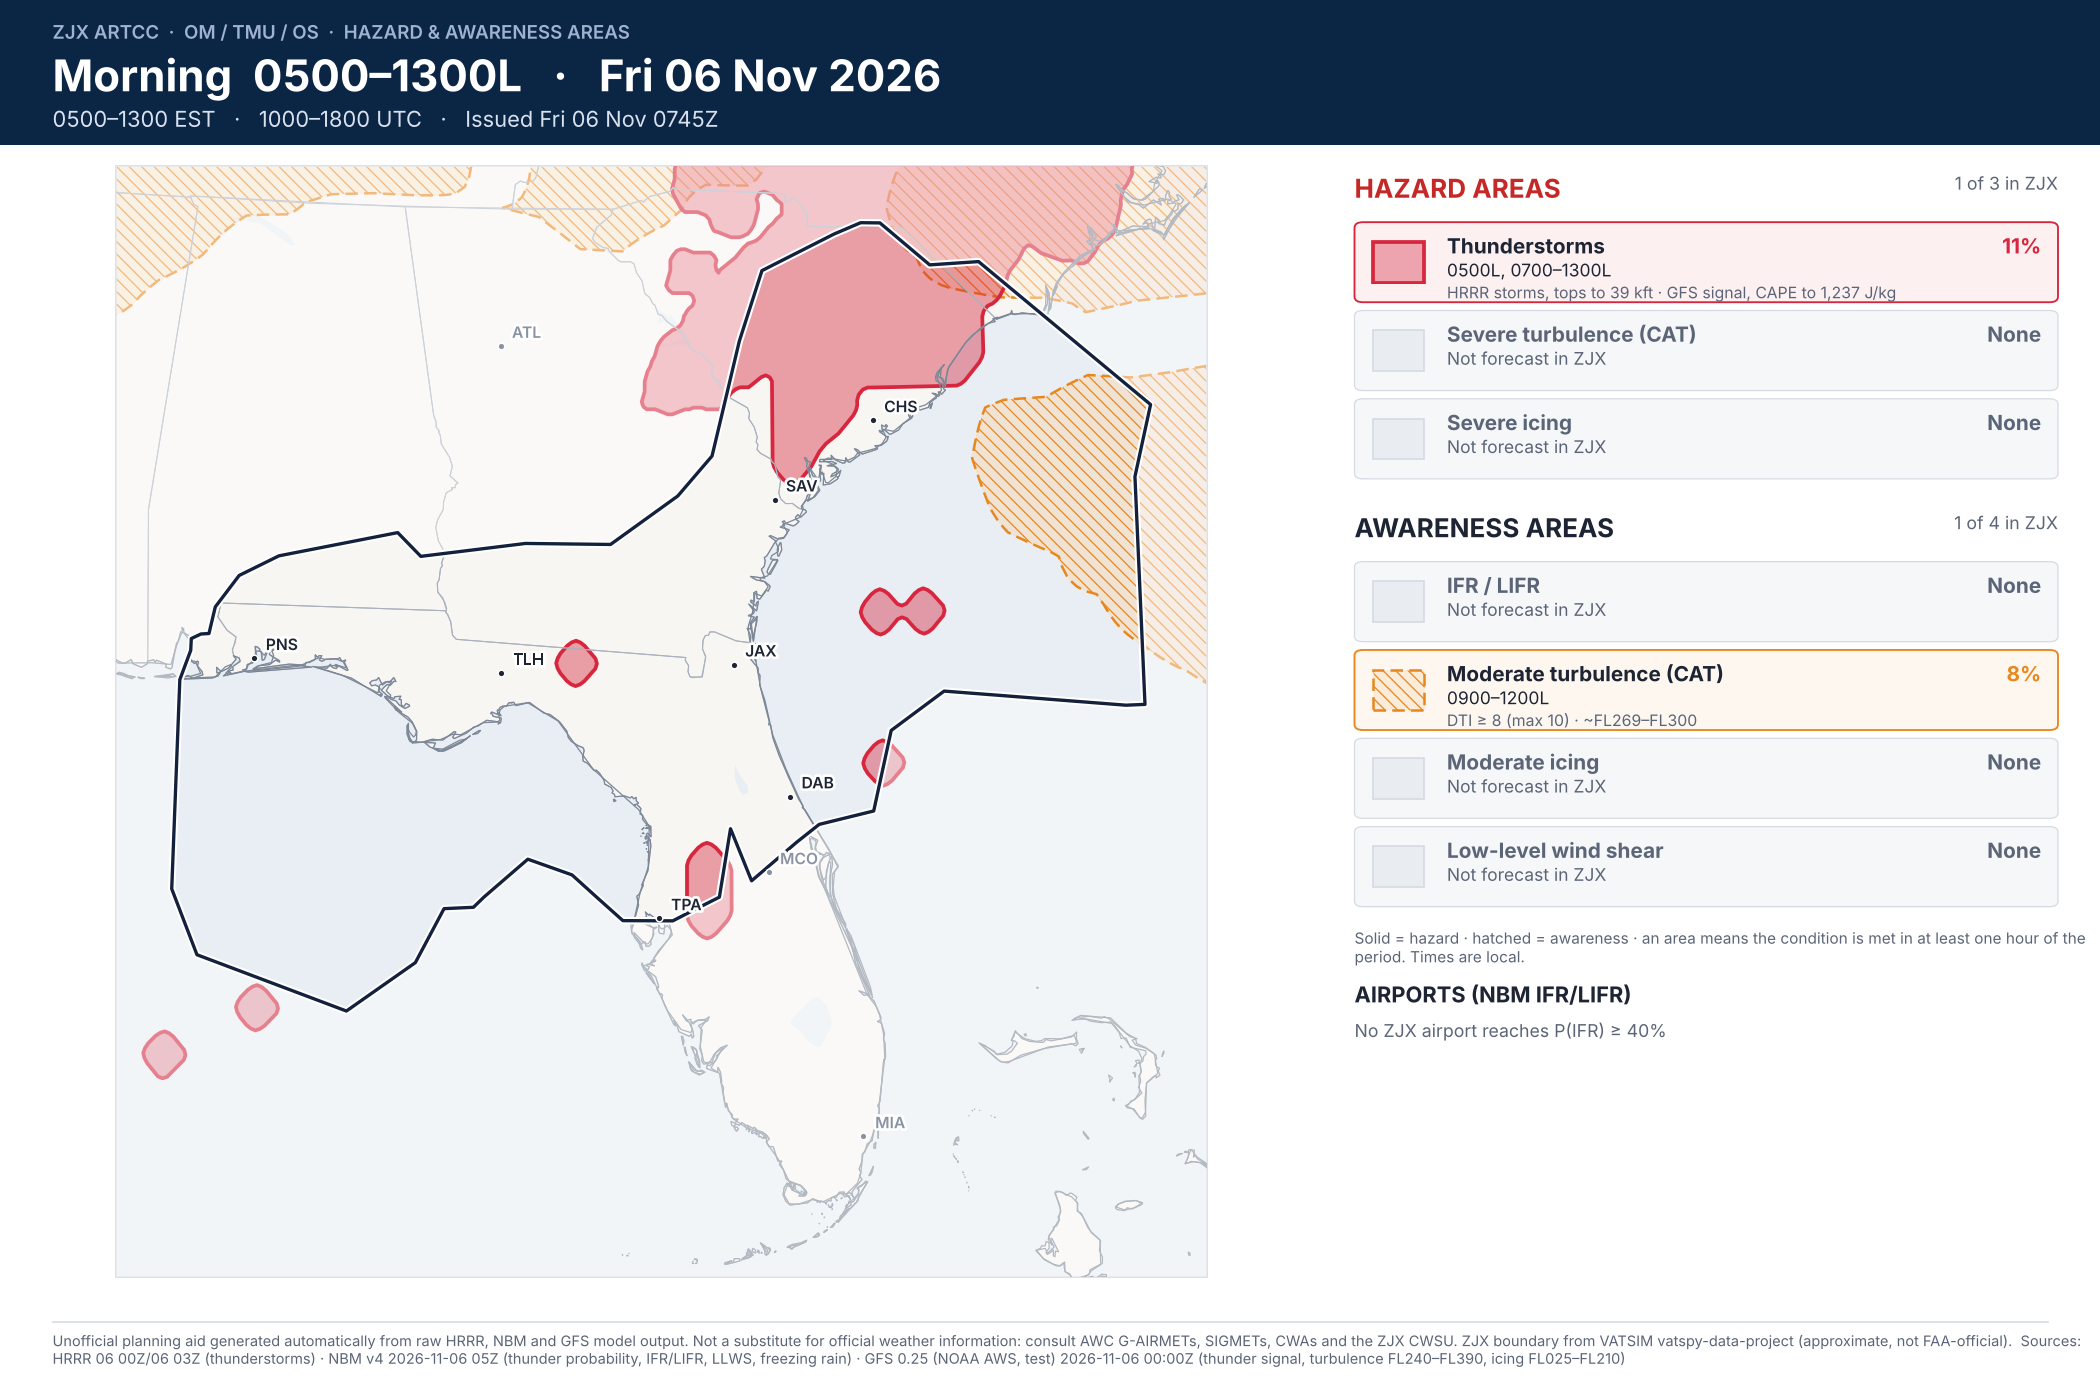
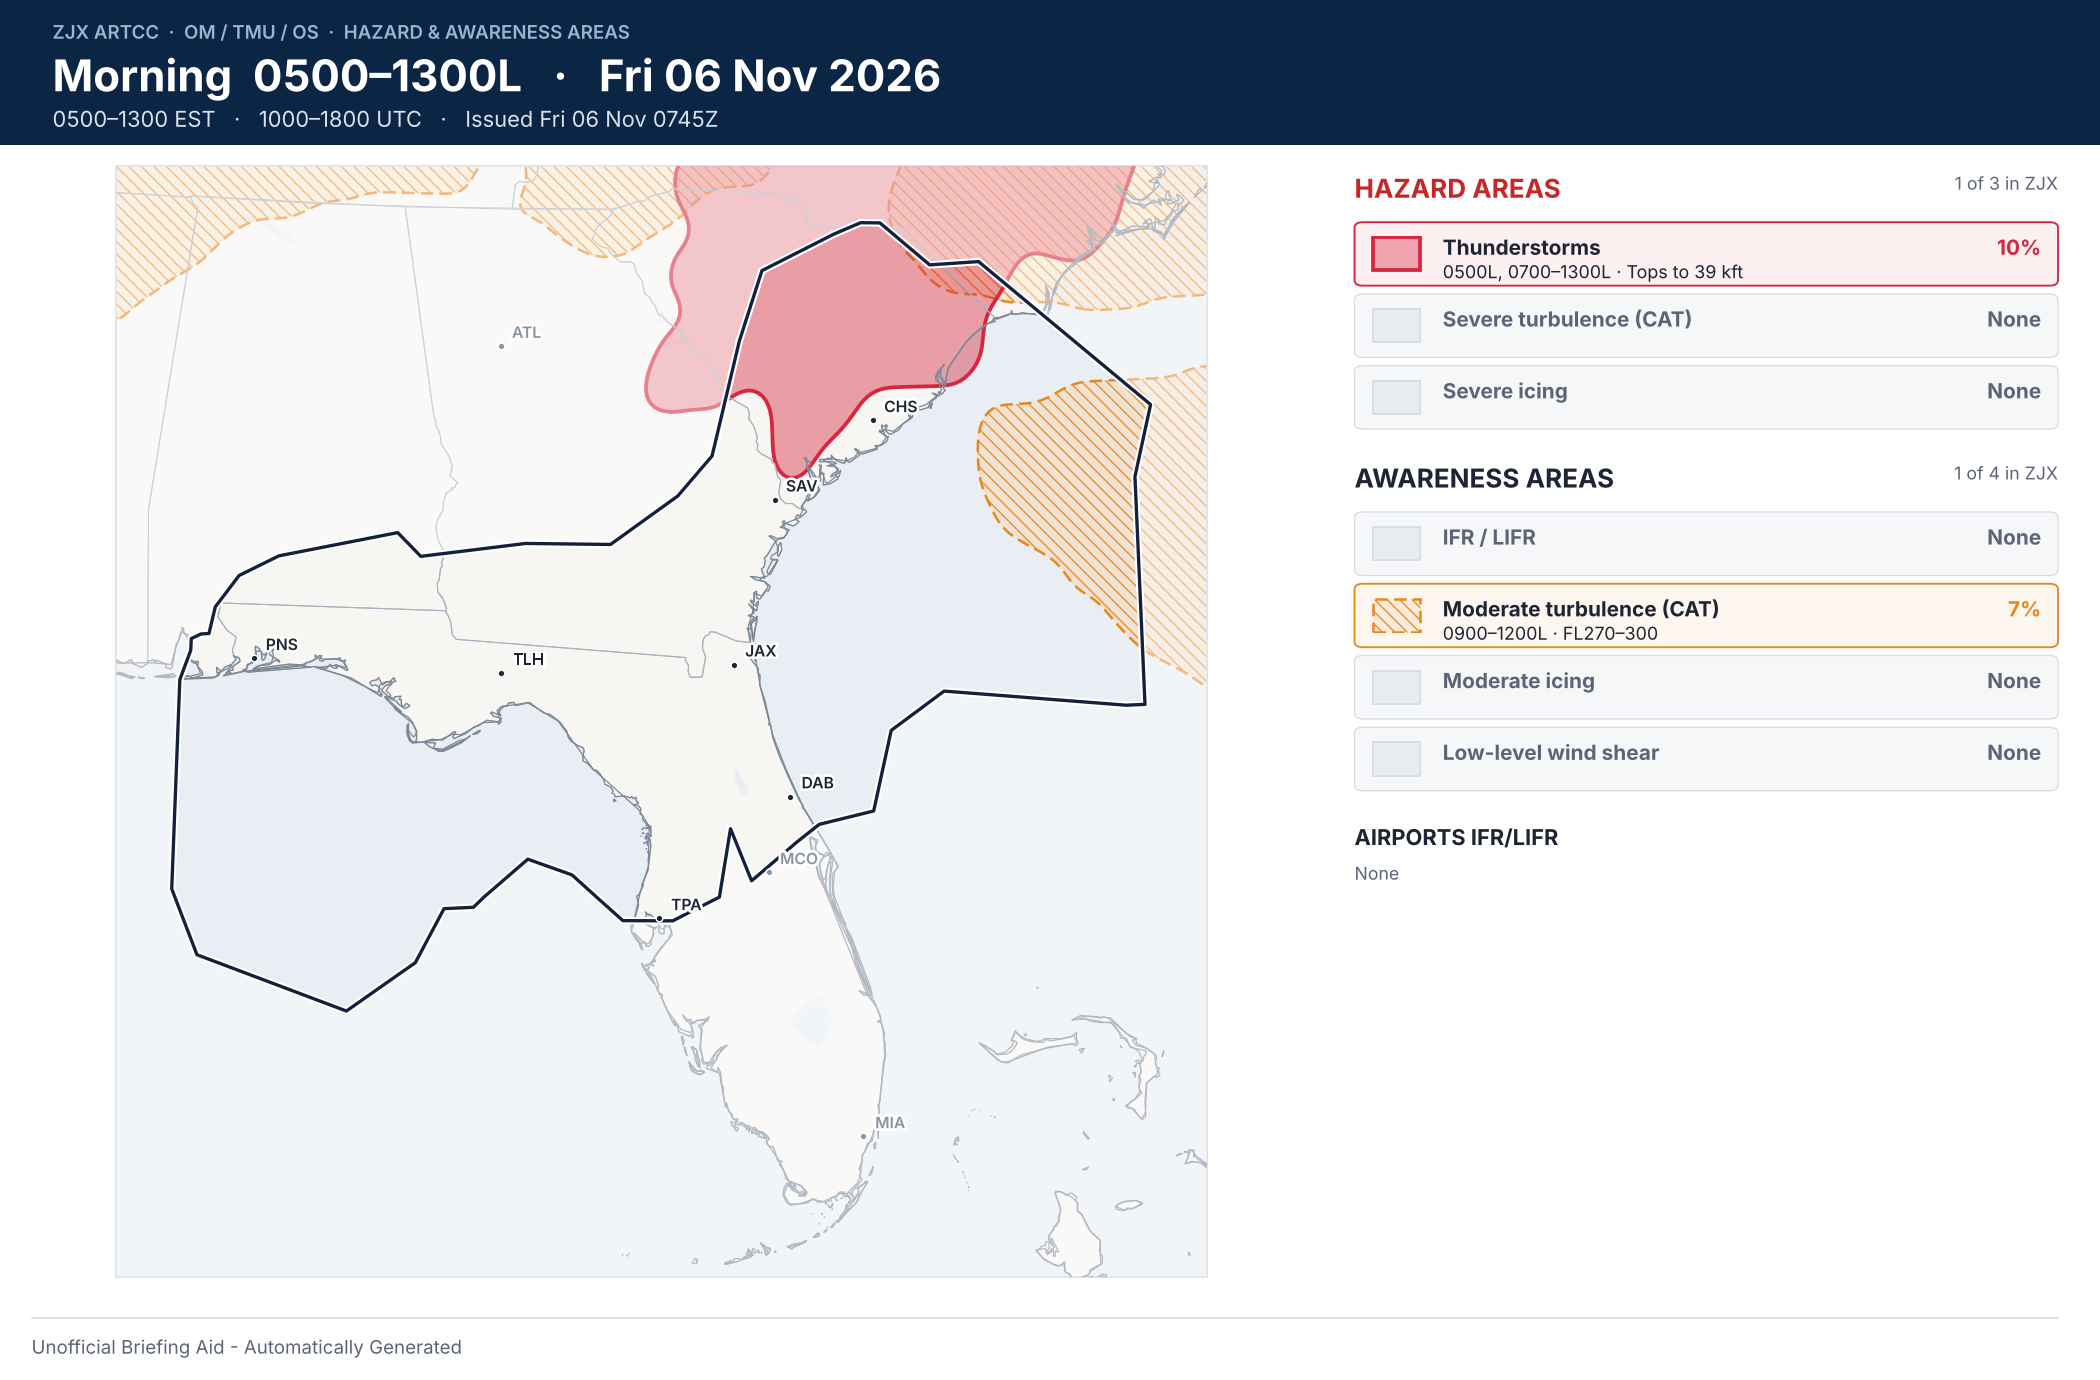
OM/TMU/OS maps: smooth areas, drop small blobs, trim wording
Areas are generalised on a 5 km display grid (close 20 km gaps, drop
areas and holes under 5,000 km2, smooth edges over 15 km), and the ZJX
share is measured on what is drawn. The panel shows only coverage,
hours and altitudes/tops; the footer reads 'Unofficial Briefing Aid -
Automatically Generated'. The web page section text is shortened.

Claude-Session: https://claude.ai/code/session_018Y82yCqfdaEFTLC5hByubr

diff --git a/zjxwx/tmu.py b/zjxwx/tmu.py
@@ -28,6 +28,7 @@ import matplotlib
 matplotlib.use("Agg")
 import matplotlib.pyplot as plt
 import numpy as np
+from matplotlib.lines import Line2D
 from matplotlib.patches import FancyBboxPatch, Rectangle
 from scipy.ndimage import uniform_filter
 from shapely.geometry import Point
@@ -36,7 +37,7 @@ from . import diagnostics as dx
 from .analysis import Window, summarize
 from .config import AIRPORTS, ICING_LEVELS, STYLE as S, TIMEZONE, TMU_PERIODS
 from .geo import _polygon_path
-from .render import HALO, PC, _fine, _footer, _header, _map_axes, _overlay_geography, _tint
+from .render import HALO, PC, _fine, _header, _map_axes, _overlay_geography, _tint
 
 C = S["tmu"]
 
@@ -441,6 +442,105 @@ def _airport_ifr(nbm, ifr, lifr, times, t, tz, boundary):
 
 
 # --------------------------------------------------------------------------
+# Generalising areas for display
+# --------------------------------------------------------------------------
+_DISP = {}
+
+
+def _disp_grid():
+    """Regular ~5 km lon/lat grid over the map, shared by every element."""
+    if "g" not in _DISP:
+        DX, DY = _display_grid(0.05)
+        _DISP["g"] = (DX, DY)
+    return _DISP["g"]
+
+
+def _to_disp(plot):
+    """Boolean 'in area' on the display grid from any element plot tuple."""
+    X, Y, Z, lvl = plot
+    DX, DY = _disp_grid()
+    key = (X.shape, float(np.nanmin(X)), float(np.nanmin(Y)))
+    if key not in _CACHE:
+        _CACHE[key] = _Nearest(Y, X, DY, DX, max_deg=0.2)
+    return _CACHE[key](np.nan_to_num(Z, nan=-1) >= lvl)
+
+
+def _generalise(ind, g):
+    """Grid-point detail -> broad areas: close gaps, drop small blobs, smooth edges.
+
+    Returns a float field to contour at 0.5.
+    """
+    from scipy.ndimage import binary_closing, gaussian_filter, label
+
+    km = 5.5  # display grid spacing
+    r = max(1, int(round(g["close_km"] / km)))
+    yy, xx = np.mgrid[-r:r + 1, -r:r + 1]
+    a = binary_closing(ind, structure=(xx ** 2 + yy ** 2) <= r * r, border_value=0)
+    min_cells = g["min_area_km2"] / (km * km)
+    lab, n = label(a)
+    if n:  # drop small areas
+        keep = np.bincount(lab.ravel()) >= min_cells
+        keep[0] = False
+        a = keep[lab]
+    lab, n = label(~a)
+    if n:  # fill small holes
+        small = np.bincount(lab.ravel()) < min_cells
+        small[0] = False
+        a = a | small[lab]
+    return gaussian_filter(a.astype(float), g["smooth_km"] / km)
+
+
+def generalise(elements, mask, cfg):
+    """Replace each element's plot with a smoothed, de-speckled display field
+    and recompute its ZJX coverage from what is drawn."""
+    g = cfg["tmu"]
+    DX, DY = _disp_grid()
+    x0, y0 = DX[0, 0], DY[0, 0]
+    iy = np.clip(np.round((mask.pts[:, 0] - y0) / 0.05).astype(int), 0, DX.shape[0] - 1)
+    ix = np.clip(np.round((mask.pts[:, 1] - x0) / 0.05).astype(int), 0, DX.shape[1] - 1)
+    for el in elements:
+        if el.plot is None or not el.available:
+            continue
+        ind = _to_disp(el.plot)
+        for extra in getattr(el, "extra_plots", []):
+            ind |= _to_disp(extra)
+        el.extra_plots = []
+        Z = _generalise(ind, g)
+        el.plot = (DX, DY, Z, 0.5)
+        frac = float(np.sum(mask.w * (Z[iy, ix] >= 0.5)))
+        if frac < cfg["tmu"]["min_area"]:
+            el.frac, el.hours = 0.0, []
+        else:
+            el.frac = frac
+        lp = getattr(el, "lifr_plot", None)
+        if lp is not None:
+            Zl = _generalise(_to_disp(lp), g)
+            el.lifr_plot = (DX, DY, Zl, 0.5) if np.sum(mask.w * (Zl[iy, ix] >= 0.5)) >= g["min_area"] else None
+        el.short = _short(el)
+
+
+def _short(el):
+    """A few words for the panel: altitudes or tops, nothing else."""
+    import re
+
+    d = el.detail or ""
+    if el.key == "ts":
+        m = re.search(r"tops to (\d+) kft", d)
+        return f"Tops to {m.group(1)} kft" if m else ""
+    if el.key == "llws":
+        return "Below 2,000 ft AGL"
+    if el.key == "ifr":
+        return "LIFR at times" if getattr(el, "lifr_plot", None) is not None else ""
+    if el.key == "ice_sev" and "freezing rain" in d.lower():
+        return "Freezing rain"
+    m = re.search(r"FL(\d{3})–FL(\d{3})", d)
+    if not m:
+        return ""
+    lo, hi = (int(round(int(v) / 10.0)) * 10 for v in m.groups())
+    return f"FL{lo:03d}–{hi:03d}"
+
+
+# --------------------------------------------------------------------------
 # Rendering
 # --------------------------------------------------------------------------
 def _draw(ax, el, z):
@@ -518,11 +618,9 @@ def render(window, summary, elements, boundary, out, sources, issued=None, dpi=1
                 fontsize=30, color="#b3261e", alpha=0.25, weight="bold", rotation=30, zorder=10)
 
     _panel(fig, [0.645, 0.075, 0.335, y - 0.09], elements, w.tz)
-    _footer(fig, "Sources: " + sources)
-    models = [m for m in ("HRRR", "NBM") if sources.find(m) != -1 and f"{m} unavailable" not in sources]
-    if models:
-        ft = fig.texts[-1]
-        ft.set_text(ft.get_text().replace("raw GFS model output", f"raw {', '.join(models)} and GFS model output"))
+    fig.add_artist(Line2D([0.015, 0.98], [0.045, 0.045], transform=fig.transFigure, color=S["rule"], lw=0.8))
+    fig.text(0.015, 0.024, "Unofficial Briefing Aid - Automatically Generated", fontsize=9, color=S["muted"],
+             va="center")
     fig.savefig(out, dpi=dpi, facecolor=S["paper"])
     plt.close(fig)
     return out
@@ -542,55 +640,48 @@ def _panel(fig, rect, elements, tz):
         for e in items:
             yy = _item(fig, x, yy, wdt, e, tz)
         yy -= 0.018
-    fig.text(x, yy + 0.008, "Solid = hazard · hatched = awareness · an area means the condition is "
-             "met in at least one hour of the period. Times are local.", fontsize=7.4, color=S["muted"],
-             va="top", wrap=True)
-    yy -= 0.03
     ap = next((e for e in elements if e.key == "ifr"), None)
     rows = getattr(ap, "airports", None) if ap is not None else None
-    fig.text(x, yy, "AIRPORTS (NBM IFR/LIFR)", fontsize=10.5, weight="bold", va="top")
+    fig.text(x, yy, "AIRPORTS IFR/LIFR", fontsize=10.5, weight="bold", va="top")
     yy -= 0.028
     if ap is None or not ap.available:
-        fig.text(x, yy, "NBM unavailable for this run", fontsize=8.5, color=S["muted"], va="top")
+        fig.text(x, yy, "n/a", fontsize=8.5, color=S["muted"], va="top")
     elif not rows:
-        fig.text(x, yy, f"No ZJX airport reaches P(IFR) ≥ {ap.threshold}%", fontsize=8.5,
-                 color=S["muted"], va="top")
+        fig.text(x, yy, "None", fontsize=8.5, color=S["muted"], va="top")
     else:
         for name, cat, pi, pl, span in rows[:6]:
             fig.text(x, yy, name, fontsize=9, weight="bold", va="top")
             fig.text(x + 0.04, yy, f"{cat}", fontsize=9, weight="bold", va="top", color=C["ifr"])
-            fig.text(x + 0.085, yy, f"P(IFR) {pi:.0f}% · P(LIFR) {pl:.0f}% · {span}", fontsize=8.4,
-                     va="top", color=S["muted"])
+            fig.text(x + 0.085, yy, span, fontsize=8.6, va="top", color=S["ink"])
             yy -= 0.024
 
 
 def _item(fig, x, y, w, e, tz):
-    rh = 0.064
+    rh = 0.052
     on = e.present
     fig.patches.append(FancyBboxPatch((x, y - rh + 0.006), w, rh - 0.006,
                                       boxstyle="round,pad=0,rounding_size=0.004",
                                       transform=fig.transFigure,
                                       facecolor=_tint(e.color, 0.07) if on else "#f6f7f9",
                                       edgecolor=e.color if on else S["rule"], lw=0.9 if on else 0.6))
-    sw = fig.add_axes([x + 0.008, y - rh + 0.019, 0.026, rh - 0.032])
+    sw = fig.add_axes([x + 0.008, y - rh + 0.016, 0.024, rh - 0.026])
     sw.set_axis_off()
     sw.set_zorder(5)  # above the figure-level card background
     sw.add_patch(Rectangle((0.04, 0.04), 0.92, 0.92, transform=sw.transAxes, **_swatch(e)))
-    tx = x + 0.044
-    fig.text(tx, y - 0.008, e.name, fontsize=10, weight="bold", va="top",
+    tx = x + 0.042
+    fig.text(tx, y - 0.009, e.name, fontsize=10, weight="bold", va="top",
              color=S["ink"] if on else S["muted"])
     if not e.available:
-        status, sub = "n/a", f"{e.source} data unavailable for this run"
+        status, sub = "n/a", ""
     elif on:
         status = f"{e.frac:.0%}" if e.frac >= 0.005 else "<1%"
-        sub = _span(e.hours, tz)
+        sub = " · ".join(x for x in (_span(e.hours, tz), getattr(e, "short", "")) if x)
     else:
-        status, sub = "None", "Not forecast in ZJX"
-    fig.text(x + w - 0.008, y - 0.008, status, fontsize=10, weight="bold", va="top", ha="right",
+        status, sub = "None", ""
+    fig.text(x + w - 0.008, y - 0.009, status, fontsize=10, weight="bold", va="top", ha="right",
              color=e.color if on else S["muted"])
-    fig.text(tx, y - 0.027, sub, fontsize=8.4, va="top", color=S["ink"] if on else S["muted"])
-    if on and e.detail:
-        fig.text(tx, y - 0.044, e.detail, fontsize=7.6, va="top", color=S["muted"])
+    if sub:
+        fig.text(tx, y - 0.028, sub, fontsize=8.6, va="top", color=S["ink"])
     return y - rh
 
 
@@ -633,6 +724,7 @@ def run(grid, diag, mask, boundary, day, outdir, nbm=None, tz=TIMEZONE, issued=N
     rows = []
     for w in windows:
         s, els = analyse(w, diag, mask, nbm, nbm_mask, hrrr=hrrr)
+        generalise(els, mask, diag.cfg)
         name = f"tmu_{w.shift.code}.png"
         render(w, s, els, boundary, outdir / name, src, issued, dpi, grid.synthetic)
         log(f"{w.shift.code} {w.local_label()}: " +

diff --git a/tools/write_index.py b/tools/write_index.py
@@ -69,11 +69,8 @@ def _tmu_section(out: Path, stamp: str):
 <section id="tmu">
   <div class="sec-head">
     <h2>OM/TMU/OS</h2>
-    <p>Hazard and awareness areas for <strong>{_day(res['day'])}</strong>, issued
-       {issued:%a %d %b %H%MZ} (once each morning, before 0500 local).
-       <span class="why">Solid = hazard (thunderstorms, severe turbulence, severe icing).
-       Hatched = awareness (IFR/LIFR, moderate turbulence, moderate icing, low-level wind shear).</span></p>
-    <p class="why">{html.escape(res['sources'])}</p>
+    <p><strong>{_day(res['day'])}</strong> · issued {issued:%H%MZ}
+       <span class="why">Solid = hazard · hatched = awareness</span></p>
   </div>
   {''.join(blocks)}
 </section>"""

diff --git a/zjxwx/config.py b/zjxwx/config.py
@@ -116,6 +116,10 @@ DEFAULTS = {
         # Ignore specks: an area must cover at least this fraction of the
         # ZJX airspace to be listed as present.
         "min_area": 0.002,
+        # Map display: close gaps narrower than close_km, drop areas smaller
+        # than min_area_km2, then smooth edges over smooth_km, so the map
+        # shows broad areas rather than grid-point detail.
+        "close_km": 20, "min_area_km2": 5000, "smooth_km": 15,
     },
     # Workload rules use the fraction of ZJX airspace (area-weighted) meeting a
     # condition. Each hazard maps to 0 LOW / 1 MODERATE / 2 HIGH.

diff --git a/README.md b/README.md
@@ -66,7 +66,9 @@ Why HRRR for thunderstorms: on 6 Nov 2026, storms with 42–49 kft MRMS echo top
 
 Why GFS for turbulence and icing: NBM v4 has no in-flight icing aloft. Its only upper-level turbulence field is an undocumented 0–3 Ellrod category for 400–300 hPa. Its low-level turbulence category (surface–4,500 ft) put "severe" and "extreme" over 6 % of ZJX on 6 Nov 2026, where 10 m winds were about 8 kt, so it is not used. Without an NBM file (or if the download fails), `tmu` still renders: thunderstorms and freezing rain fall back to GFS, and IFR/LIFR and LLWS show as unavailable.
 
-The side panel lists every item with the share of ZJX affected, the local hours and the altitudes. It also lists the ZJX airports that reach P(IFR) ≥ 40 %.
+The side panel keeps the words to a minimum: each item's share of ZJX, local hours and altitudes or tops, plus the ZJX airports that reach P(IFR) ≥ 40 %. The footer reads only "Unofficial Briefing Aid - Automatically Generated"; the model runs used are recorded in `tmu.json`.
+
+Areas are generalised for display (`close_km`, `min_area_km2`, `smooth_km` in `config.DEFAULTS["tmu"]`): gaps under 20 km are closed, areas under 5,000 km² and holes of that size are dropped, and edges are smoothed over 15 km. The share of ZJX is measured on what is drawn.
 
 ## Layout
 ```
